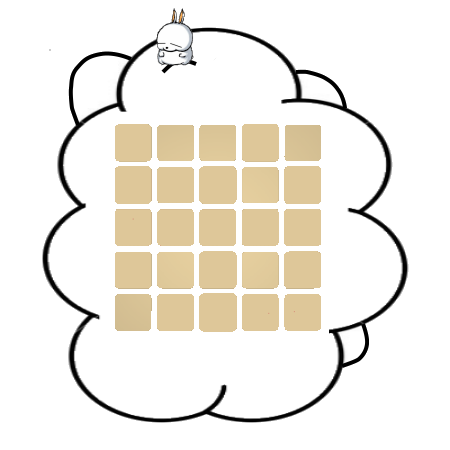
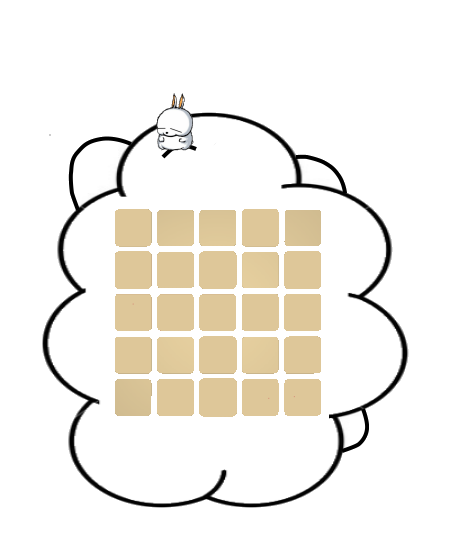
Squash

diff --git a/SpymasterController.js b/SpymasterController.js
@@ -2,28 +2,12 @@ var spymaster = angular.module('spymaster', []);
 
 spymaster.controller('SpymasterController', ['$scope',
 	function SpymasterController($scope) {
-		// var POSITIONS = [
-		// 	{x: 32.8, y: 32}, {x: 59.5, y: 32}, {x: 86, y: 32}, {x: 113, y: 32}, {x: 139.6, y: 32},
-		// 	{x: 32.8, y: 59}, {x: 59.5, y: 59}, {x: 86, y: 59}, {x: 113, y: 59}, {x: 139.6, y: 59},
-		// 	{x: 32.8, y: 86}, {x: 59.5, y: 86}, {x: 86, y: 86}, {x: 113, y: 86}, {x: 139.6, y: 86},
-		// 	{x: 32.8, y: 112.5}, {x: 59.5, y: 112.5}, {x: 86, y: 112.5}, {x: 113, y: 112.5}, {x: 139.6, y: 112.5},
-		// 	{x: 32.8, y: 139}, {x: 59.5, y: 139}, {x: 86, y: 139}, {x: 113, y: 139}, {x: 139.6, y: 139}
-		// ];
-
-		// var POSITIONS = [
-		// 	{x: 136, y: 130}, {x: 243, y: 130}, {x: 349, y: 130}, {x: 456, y: 130}, {x: 563, y: 130},
-		// 	{x: 136, y: 237}, {x: 243, y: 237}, {x: 349, y: 237}, {x: 456, y: 237}, {x: 563, y: 237},
-		// 	{x: 136, y: 344}, {x: 243, y: 344}, {x: 349, y: 344}, {x: 456, y: 344}, {x: 563, y: 344},
-		// 	{x: 136, y: 449}, {x: 243, y: 449}, {x: 349, y: 449}, {x: 456, y: 449}, {x: 563, y: 449},
-		// 	{x: 136, y: 559}, {x: 243, y: 559}, {x: 349, y: 557}, {x: 456, y: 559}, {x: 563, y: 559}
-		// ];
-
 		var POSITIONS = [
-			{x: 201, y: 216}, {x: 277, y: 216}, {x: 352, y: 216}, {x: 429, y: 216}, {x: 504, y: 216},
-			{x: 201, y: 290}, {x: 277, y: 290}, {x: 352, y: 290}, {x: 429, y: 290}, {x: 504, y: 290},
-			{x: 201, y: 367}, {x: 277, y: 367}, {x: 352, y: 367}, {x: 429, y: 367}, {x: 504, y: 367},
-			{x: 201, y: 444}, {x: 277, y: 444}, {x: 352, y: 444}, {x: 429, y: 444}, {x: 504, y: 444},
-			{x: 201, y: 519}, {x: 277, y: 519}, {x: 352, y: 517}, {x: 429, y: 519}, {x: 504, y: 519}
+			{x: 255, y: 460}, {x: 348, y: 460}, {x: 442, y: 460}, {x: 535, y: 460}, {x: 630, y: 460},
+			{x: 255, y: 553}, {x: 348, y: 553}, {x: 442, y: 553}, {x: 535, y: 553}, {x: 630, y: 553},
+			{x: 255, y: 646}, {x: 348, y: 646}, {x: 442, y: 646}, {x: 535, y: 646}, {x: 630, y: 646},
+			{x: 255, y: 741}, {x: 348, y: 741}, {x: 442, y: 741}, {x: 535, y: 741}, {x: 630, y: 741},
+			{x: 255, y: 835}, {x: 348, y: 835}, {x: 442, y: 835}, {x: 535, y: 835}, {x: 630, y: 835}
 		];
 
 		var placeColors = function() {
@@ -70,7 +54,7 @@ spymaster.controller('SpymasterController', ['$scope',
 			for (var i = 0; i < colors.length; i++) {
 				var position = POSITIONS[i];
 				if (colors[i] === 'red') {
-					ctx.drawImage(imgRed, position.x, position.y, 80, 76);
+					ctx.drawImage(imgRed, position.x, position.y, 94, 90);
 				}
 			}
 		};
@@ -78,7 +62,7 @@ spymaster.controller('SpymasterController', ['$scope',
 			for (var i = 0; i < colors.length; i++) {
 				var position = POSITIONS[i];
 				if (colors[i] === 'blue') {
-					ctx.drawImage(imgBlue, position.x, position.y, 80, 76);
+					ctx.drawImage(imgBlue, position.x, position.y, 94, 90);
 				}
 			}
 		};
@@ -86,7 +70,7 @@ spymaster.controller('SpymasterController', ['$scope',
 			for (var i = 0; i < colors.length; i++) {
 				var position = POSITIONS[i];
 				if (colors[i] === 'assassin') {
-					ctx.drawImage(imgAssassin, position.x, position.y, 80, 76);
+					ctx.drawImage(imgAssassin, position.x, position.y, 94, 90);
 				}
 			}
 		};

diff --git a/info-modal.html b/info-modal.html
@@ -1,0 +1,28 @@
+<div class="modal fade">
+	<div class="modal-dialog modal-lg">
+		<div class="modal-content">
+			<div class="modal-header">
+				<button type="button" class="close" ng-click="close()" data-dismiss="modal" aria-hidden="true">&times;</button>
+				<h4 class="modal-title">How to Play</h4>
+			</div>
+			<div class="modal-body">
+				<div>
+					<p>Mashiwords is a game for 3 or more players.</p>
+
+					<p>The board consists of 25 words in a 5x5 grid. There are two teams: Team Mashimaro (the bunny) and Team Doraemon (the blue cat). Each card on the board belongs to either Team Mashimaro, Team Doraemon, Pusheen, or Evil Pusheen. 9 cards belong to Team Mashimaro, 8 to Doraemon, 7 to Innocent Pusheens, and 1 to Evil Pusheen.</p>
+
+					<p>Each team has a designated person called the 'spymaster'. The spymasters can view a card (tjiang11.github.io/mashiwords/spymaster) that informs them who each card on the board belongs to. It would be preferable to view the spymaster card on a separate mobile device. The spymasters need to get their teammates to guess which words belong to their team by giving them clues.</p>
+
+					<p>Team Mashimaro starts. The spymaster for Team Mashimaro gives a hint. Each hint consists of one word and one number, where the word is the textual hint and the number is how many words on the board the spymaster is referring to. For example, if 'Tears' and 'Plant' belong to Team Mashimaro, perhaps a clue the spymaster would give is 'Weepingbell, 2'. Clues must not be equal to or contain as prefixes/suffixes any word on the board. Clues can only be one word, unless they are a proper name (such as The Legend Of Zelda). After giving the clue, the teammates for the spymaster attempt to guess what words the spymaster is referring to. Teammates pick one word at a time and may only attempt N + 1 guesses where N is the number the spymaster gave in the hint. Once a wrong guess is made, that team's turn ends immediately and the spymaster for the opposing team can begin their round. If someone guesses on Evil Pusheen, that team loses the game. The first team to claim all its cards wins. </p>
+
+					<p>A default list of words is provided, but you are given the option to upload your own words to play with!</p>
+
+					<p>A timer is also available in case anyone gets impatient :) Have fun!</p>
+				</div>
+			</div>
+			<div class="modal-footer">
+				<button type="button" ng-click="close()" class="btn btn-primary" data-dismiss="modal">OK</button>
+			</div>
+		</div>
+	</div>
+</div>

diff --git a/GameController.js b/GameController.js
@@ -68,13 +68,10 @@ codenames.controller('GameController', ['$scope', 'ModalService', 'colorTrackerS
 					title: "Custom Words"
 		      	}
 		    }).then(function(modal) {
-				console.log("HUH");
-				console.log(modal);
 				modal.element.modal();
 				modal.close.then(function(result) {
 					customWordService.extractWords(function(customWords) {
 						$scope.cards = [];
-						console.log(customWords);
 						var numCards = 25;
 						var wordsDict = {};
 						while (numCards > 0) {
@@ -88,6 +85,18 @@ codenames.controller('GameController', ['$scope', 'ModalService', 'colorTrackerS
 						$scope.$apply();
 					});
 				});
+			});
+		};
+
+		$scope.showInfo = function() {
+			ModalService.showModal({
+				templateUrl: "info-modal.html",
+				controller: "InfoController",
+				inputs: {
+					title: "How to Play"
+				}
+			}).then(function(modal) {
+				modal.element.modal();
 			});
 		};
 
@@ -126,29 +135,26 @@ codenames.controller('GameController', ['$scope', 'ModalService', 'colorTrackerS
 codenames.controller('ComplexController', [
 	'$scope', '$element', 'title', 'close', 'customWordService',
 	function($scope, $element, title, close, customWordService) {
+		$scope.name = null;
+		$scope.age = null;
+		$scope.title = title;
+		$scope.customWordService = customWordService;
+	  
+		$scope.close = function() {
+	 		close({
+	    	name: $scope.name,
+	    	age: $scope.age
+	    	}, 500);
+		};
 
-	$scope.name = null;
-	$scope.age = null;
-	$scope.title = title;
-	$scope.customWordService = customWordService;
-  
-	//  This close function doesn't need to use jQuery or bootstrap, because
-	//  the button has the 'data-dismiss' attribute.
-	$scope.close = function() {
- 		close({
-    	name: $scope.name,
-    	age: $scope.age
-    	}, 500); // close, but give 500ms for bootstrap to animate
-	};
+	  	$scope.cancel = function() {
+	    	$element.modal('hide');
+	  	};
+	}
+]);
 
-  //  This cancel function must use the bootstrap, 'modal' function because
-  //  the doesn't have the 'data-dismiss' attribute.
-  	$scope.cancel = function() {
-
-    //  Manually hide the modal.
-    	$element.modal('hide');
-  	};
-}]);
+codenames.controller('InfoController', [function() {}
+]);
 
 codenames.component('codenamesCard', {
     templateUrl: 'codenames_card.html',

diff --git a/board.css b/board.css
@@ -6,12 +6,17 @@ body {
 
 .spymaster-body {
 	padding-top: 20%;
-	background-image: url("images/spymaster-background.jpg");
+	background: url("images/spymaster-background.jpg") no-repeat center center fixed;
+	-webkit-background-size: cover;
+    -moz-background-size: cover;
+    -o-background-size: cover;
+    background-size: cover;
 }
 
 .codenames-logo {
 	height: 8vh;
 	padding-bottom: 5vh;
+	margin-bottom:1.5vh;
 	background-image: url("images/codenameslogo.png");
 	background-size: contain;
 	background-repeat: no-repeat;
@@ -60,7 +65,7 @@ body {
     width: 15%;
     padding: 3vh 20px;
     height: 100vh;
-    overflow: hidden;
+    overflow-y: auto;
     border-right: 1px solid #123432;
     z-index: 0;
     text-align: left;
@@ -144,10 +149,13 @@ body {
 	color: transparent;
 }
 
-.red:hover, .blue:hover, .civilian:hover, .assassin:hover {
+.red1:hover, .blue1:hover, .civilian1:hover,
+.red2:hover, .blue2:hover, .civilian2:hover,
+.assassin:hover {
 	border: 3px solid white;
 	cursor: pointer;
-	color: white;
+	text-shadow: black 2px 2px;
+	color: #EEEEEE;
 }
 
 .agent-select {
@@ -224,10 +232,6 @@ body {
 	border: 4px solid #53e88e;
 }
 
-.timeOut {
-	background-color: #ffa100;
-}
-
 #timerBar {
 	width: 100%;
 	height: 30px;
@@ -242,6 +246,11 @@ body {
 	background-color: #53e88e;
 }
 
+.timeOut {
+	background-color: #ffa100;
+	border: 4px solid red;
+}
+
 #startTimer {
 	float: left;
 }
@@ -250,7 +259,7 @@ body {
 }
 
 #spymasterCard {
-	margin-top: 100px;
+	margin-top: 40px;
 }
 
 canvas {

diff --git a/index.html b/index.html
@@ -24,6 +24,7 @@
 			<div class="side-link" id="stopTimer" ng-click="stopTimer()">Stop</div>
 			<p id="spymasterCard" class="side-link" ng-click="openSpymasterCard()">Spymaster Card</p>
 			<p class="side-link" ng-click="showComplex()">Custom Words...</p>
+			<p class="side-link" ng-click="showInfo()">How to Play</p>
 		</div>
 
 		<div class="board">

diff --git a/spymaster.html b/spymaster.html
@@ -5,7 +5,7 @@
 		<script src="SpymasterController.js"></script>
 	</head>
 	<body class="spymaster-body" ng-controller="SpymasterController">
-		<canvas id="spymasterCard" width="1000" height="1000">
+		<canvas id="spymasterCard" width="1000" height="1200">
 		</canvas>
 	</body>
 </html>
